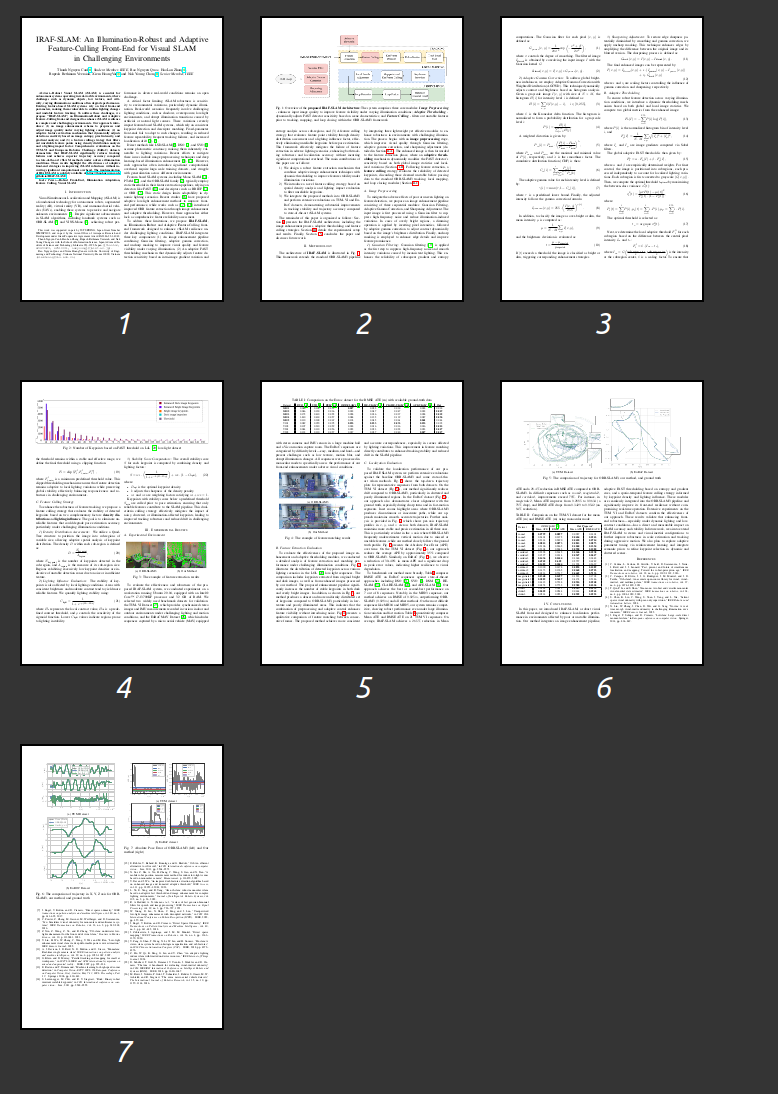
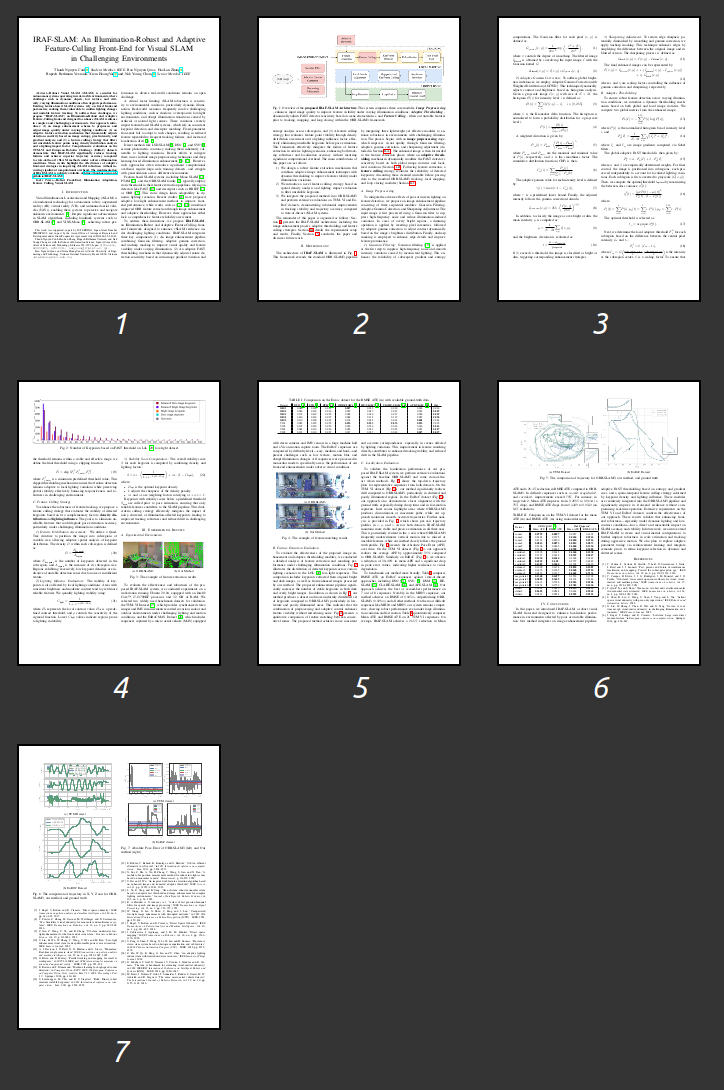
update

diff --git a/index.html b/index.html
@@ -144,13 +144,13 @@ code {
     <br><br>
       <table align=center width=1000px>
        <tr>
-         <td align=center width=150px>
+         <td align=center width=180px>
          <center>
          <span style="font-size:20px"><a href="https://thanhnguyencanh.github.io/">Thanh Nguyen Canh</a></span>
          </center>
          </td>
 
-         <td align=center width=150px>
+         <td align=center width=180px>
          <center>
          <span style="font-size:20px"> Bao Nguyen Quoc </span>
          </center>
@@ -162,7 +162,7 @@ code {
           </center>
           </td>
 
-         <td align=center width=150px>
+         <td align=center width=180px>
           <center>
           <span style="font-size:20px">Bupesh Rethinam Veeraiah</span>
           </center>
@@ -214,7 +214,7 @@ code {
             
 
             <br>
-            Robust Visual SLAM (vSLAM) is essential for autonomous systems operating in real-world environments, where challenges such as dynamic objects, low texture, and critically, varying illumination conditions often degrade performance. Existing feature-based SLAM systems rely on fixed front-end parameters, making them vulnerable to sudden lighting changes and unstable feature tracking. To address these challenges, we propose \textit{IRAF-SLAM}, an Illumination-Robust and Adaptive Feature-Culling front-end designed to enhance vSLAM resilience in complex and challenging environments. Our approach introduces: \textit{(1)} an image enhancement scheme to preprocess and adjust image quality under varying lighting conditions; \textit{(2)} an adaptive feature extraction mechanism that dynamically adjusts detection sensitivity based on image entropy, pixel intensity, and gradient analysis; and \textit{(3)} a feature culling strategy that filters out unreliable feature points using density distribution analysis and a lighting impact factor. Comprehensive evaluations on the TUM and European Robotics Challenge (EuRoC) datasets demonstrate that IRAF-SLAM significantly reduces tracking failures and achieves superior trajectory accuracy compared to state-of-the-art vSLAM methods under adverse illumination conditions. These results highlight the effectiveness of adaptive front-end strategies in improving vSLAM robustness without incurring significant computational overhead. The implementation of IRAF-SLAM is publicly available at~\url{https://thanhnguyencanh.github.io/IRAF-SLAM/}
+            Robust Visual SLAM (vSLAM) is essential for autonomous systems operating in real-world environments, where challenges such as dynamic objects, low texture, and critically, varying illumination conditions often degrade performance. Existing feature-based SLAM systems rely on fixed front-end parameters, making them vulnerable to sudden lighting changes and unstable feature tracking. To address these challenges, we propose \textit{IRAF-SLAM}, an Illumination-Robust and Adaptive Feature-Culling front-end designed to enhance vSLAM resilience in complex and challenging environments. Our approach introduces: \textit{(1)} an image enhancement scheme to preprocess and adjust image quality under varying lighting conditions; \textit{(2)} an adaptive feature extraction mechanism that dynamically adjusts detection sensitivity based on image entropy, pixel intensity, and gradient analysis; and \textit{(3)} a feature culling strategy that filters out unreliable feature points using density distribution analysis and a lighting impact factor. Comprehensive evaluations on the TUM and European Robotics Challenge (EuRoC) datasets demonstrate that IRAF-SLAM significantly reduces tracking failures and achieves superior trajectory accuracy compared to state-of-the-art vSLAM methods under adverse illumination conditions. These results highlight the effectiveness of adaptive front-end strategies in improving vSLAM robustness without incurring significant computational overhead. 
             <br><br>
 
       <hr>
